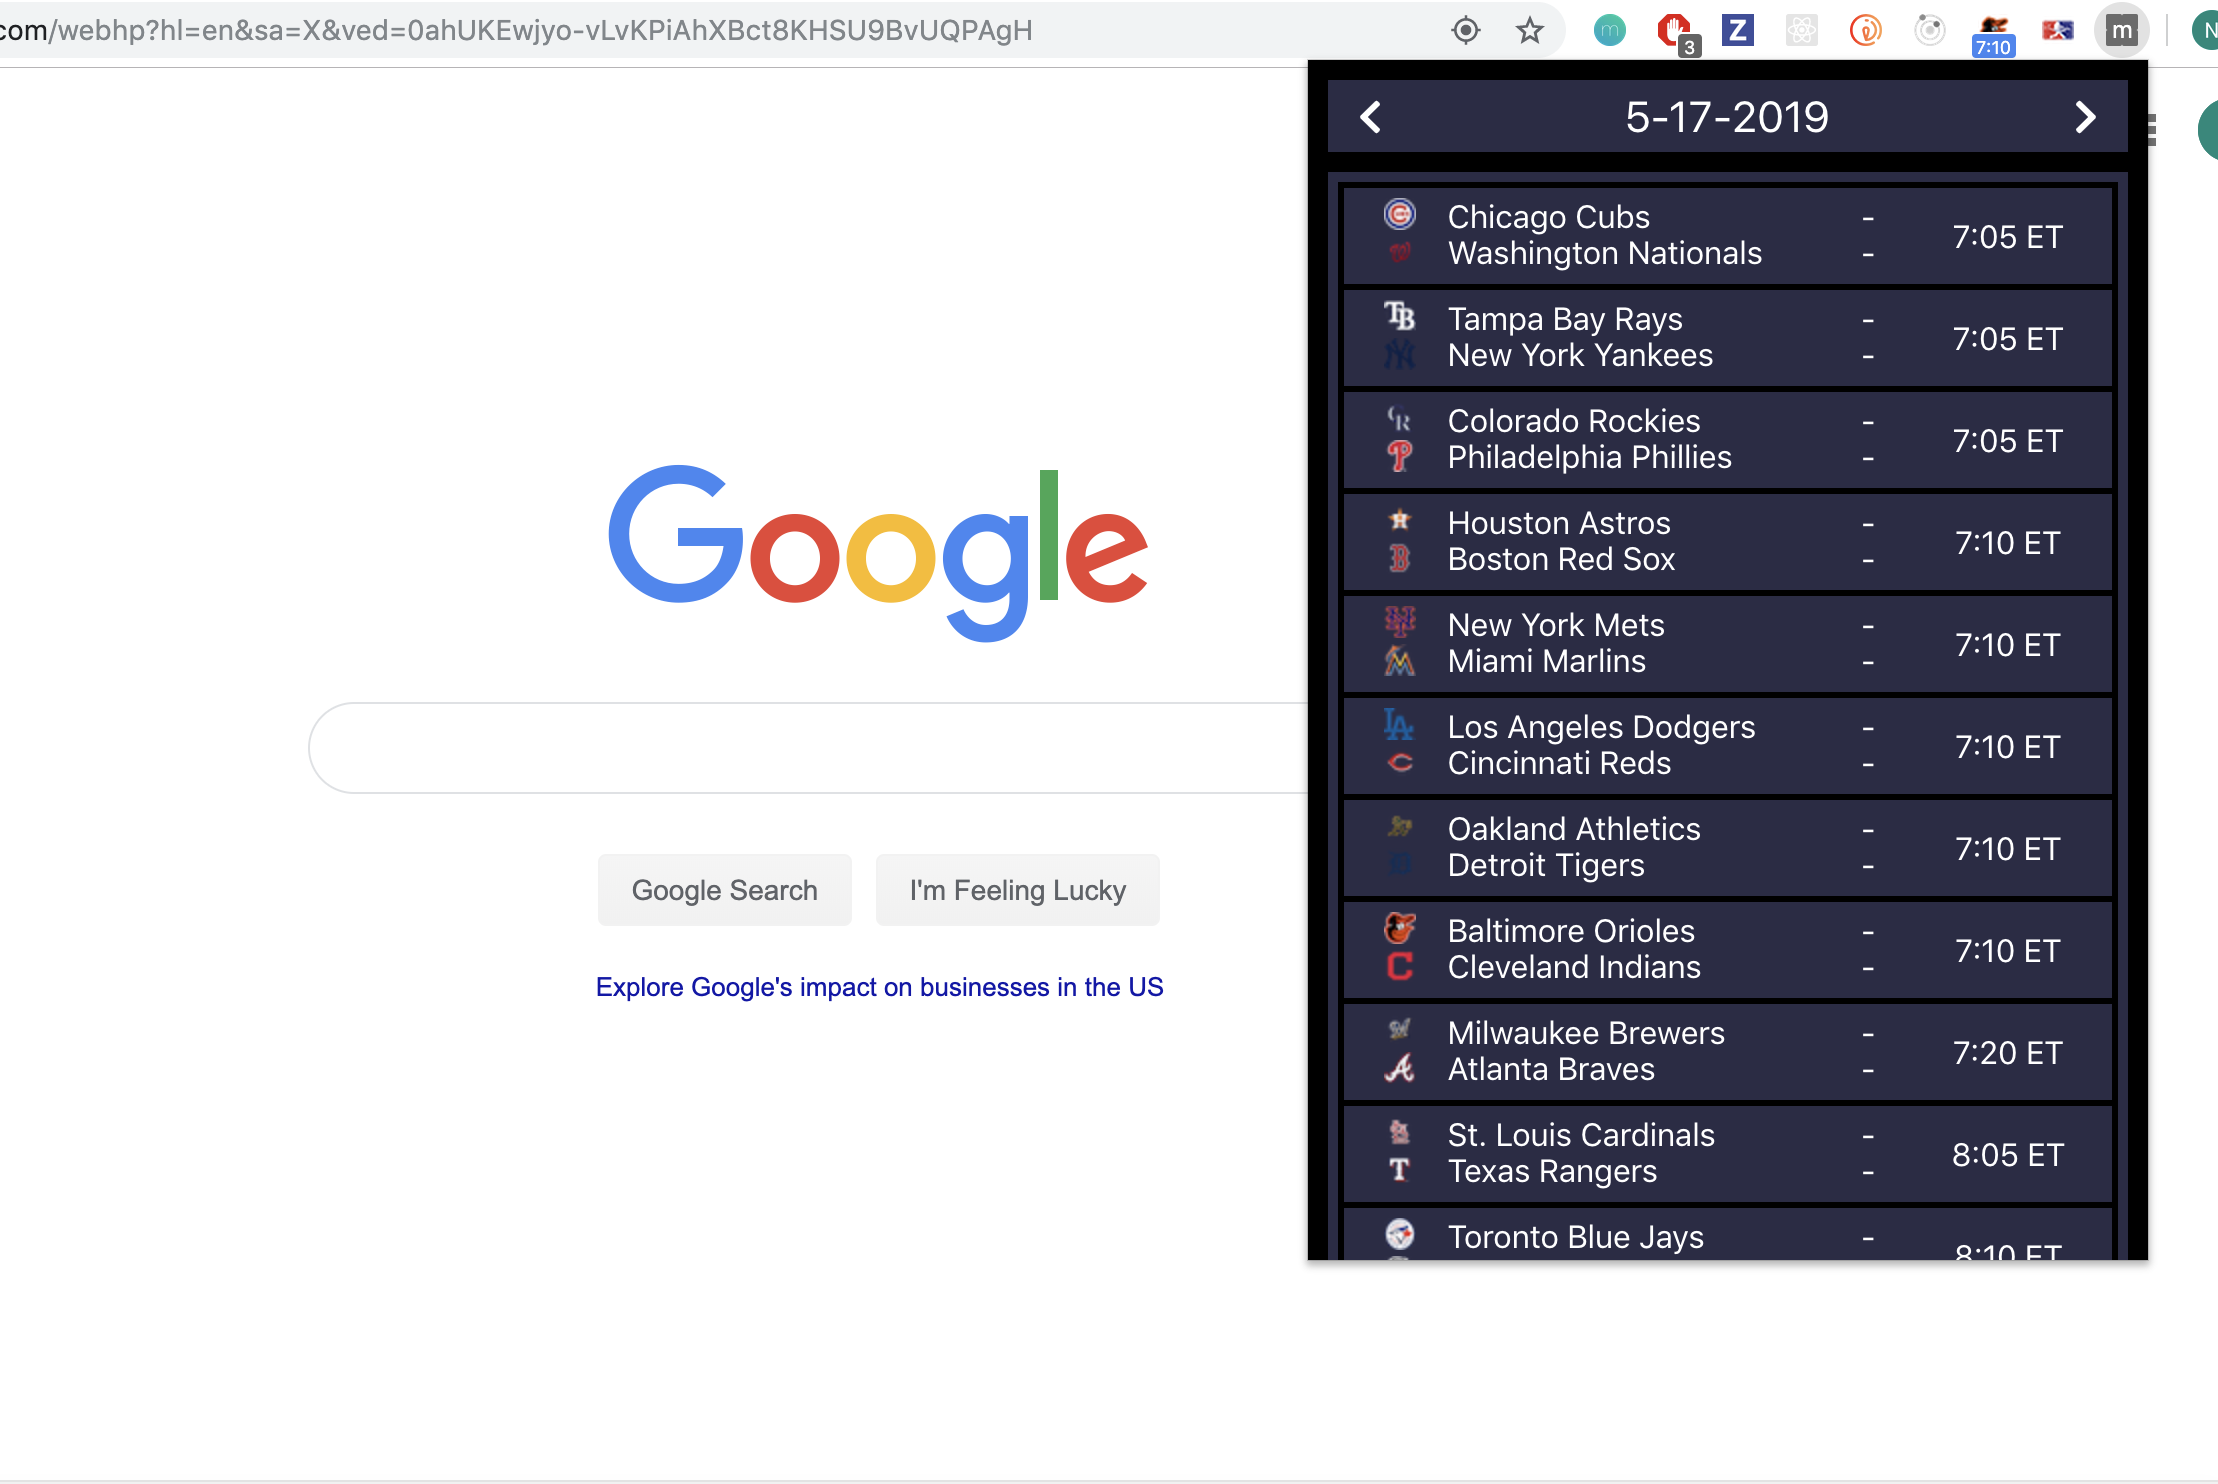
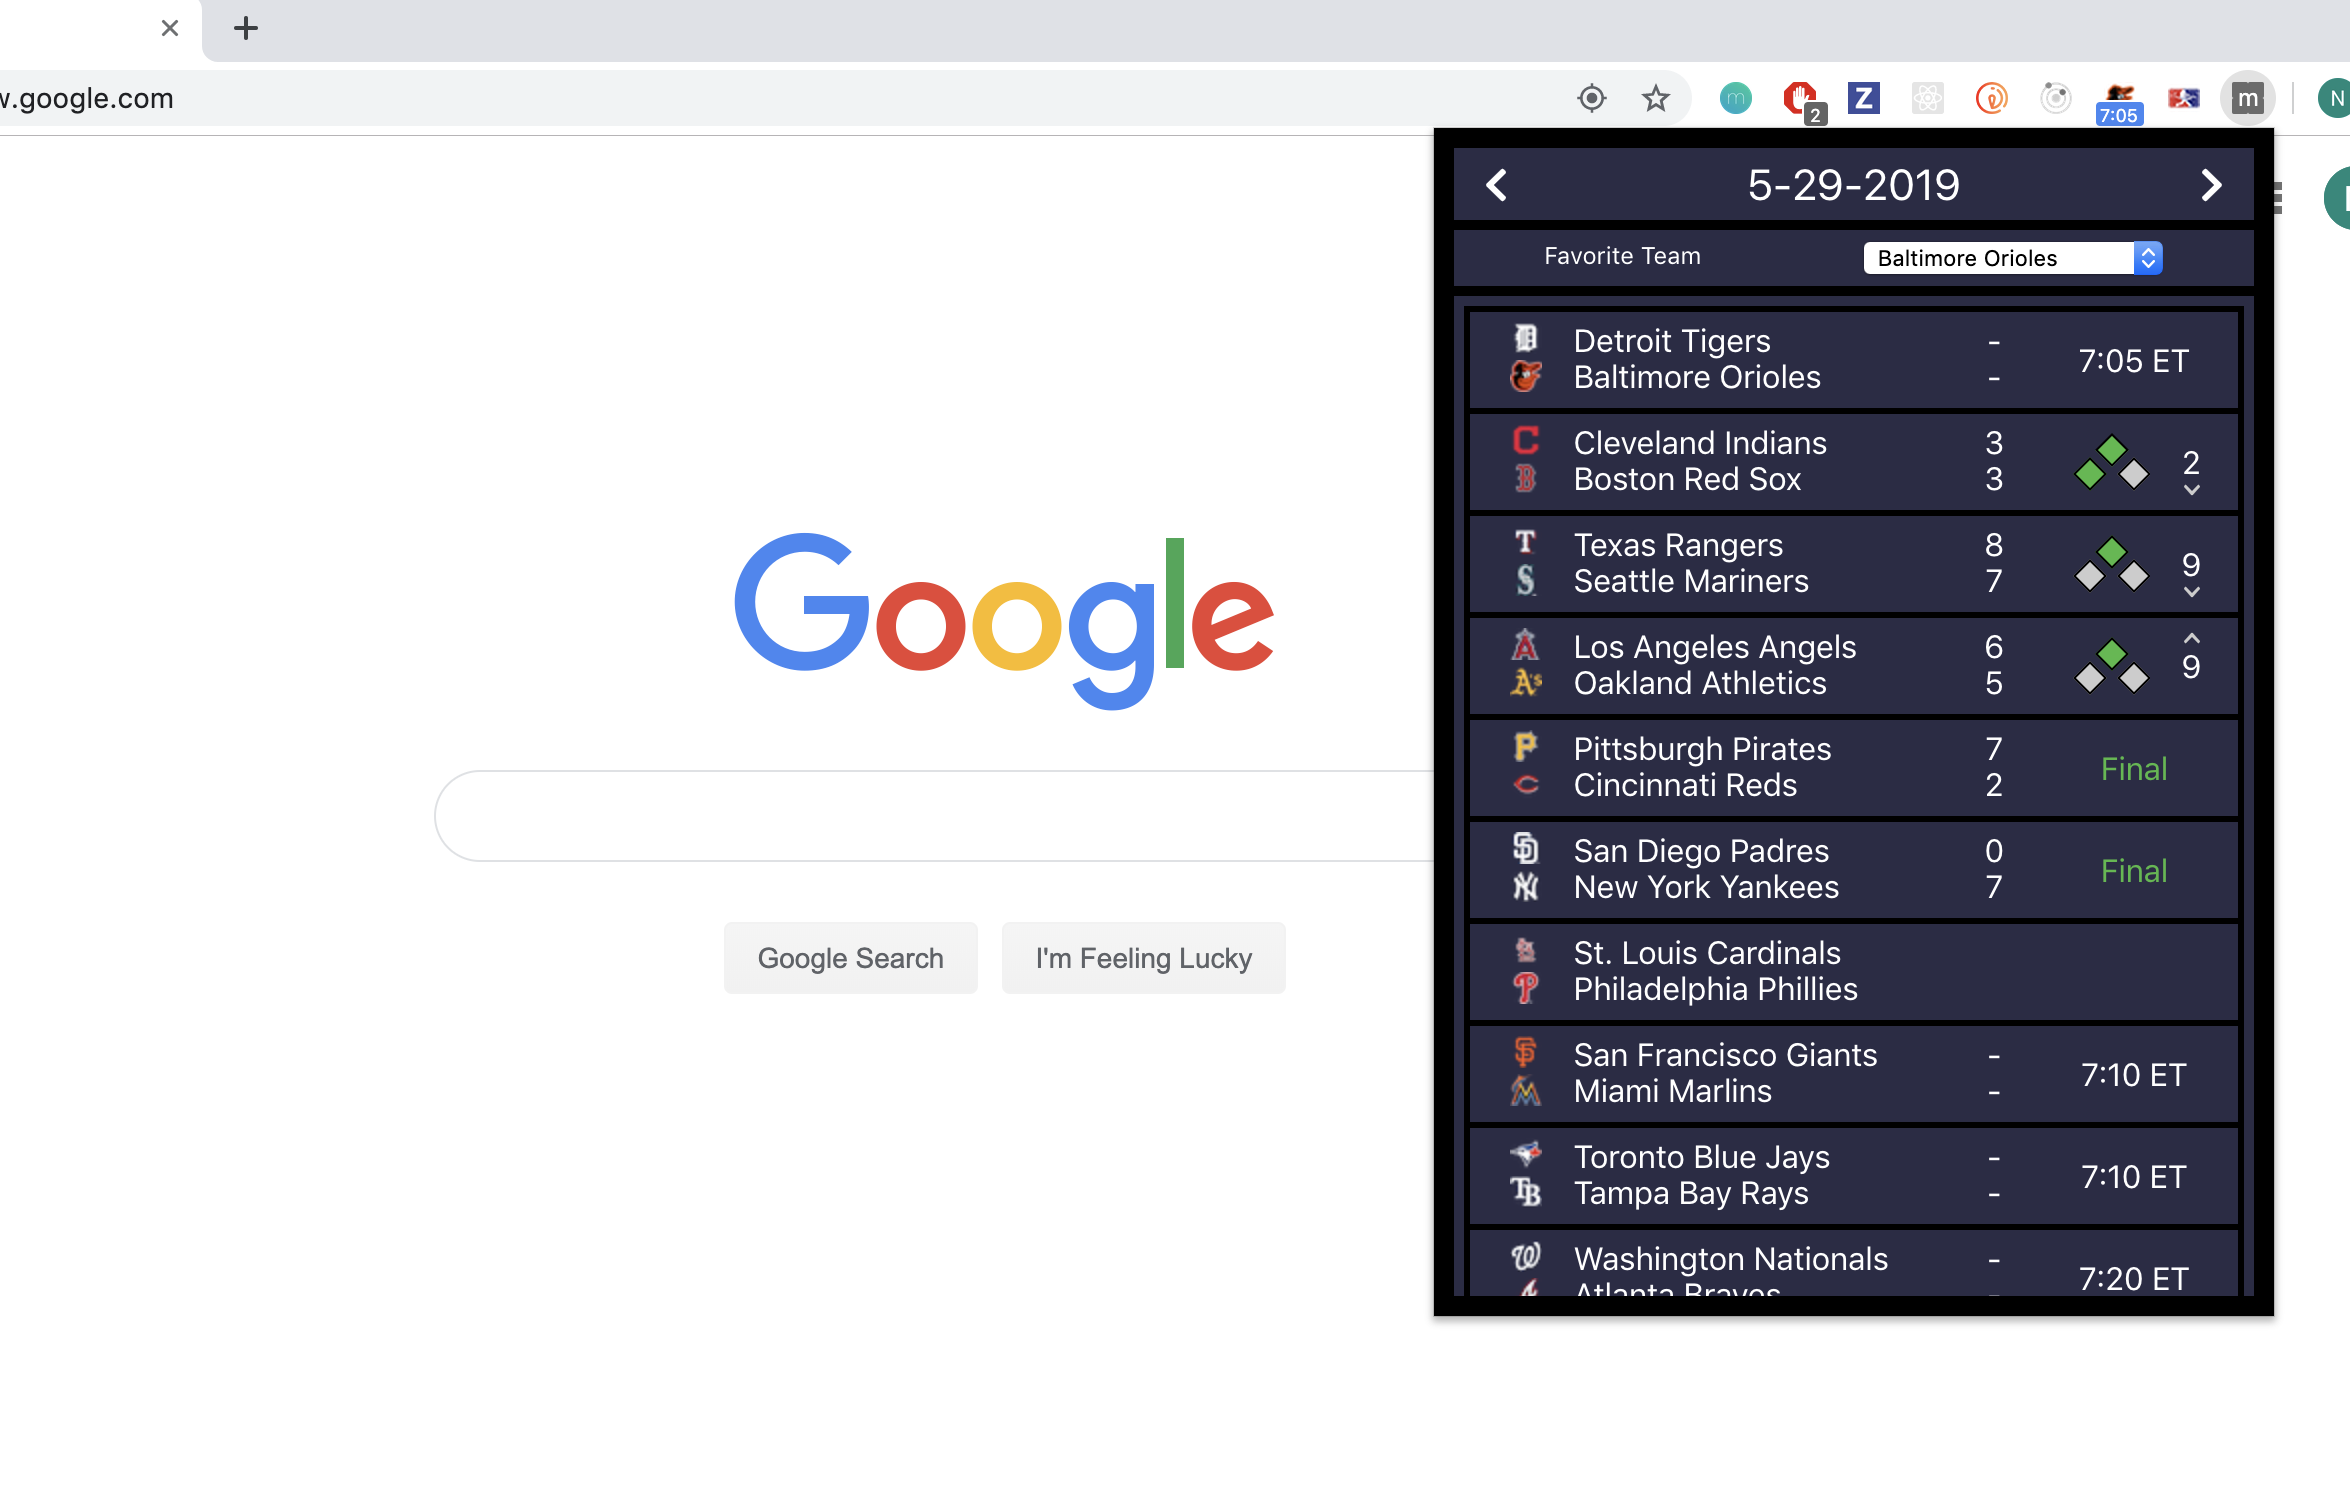
update preview

diff --git a/src/components/TeamPicker.js b/src/components/TeamPicker.js
@@ -3,14 +3,45 @@ import { Form } from 'react-bootstrap';
 import 'react-dropdown/style.css';
 import '../style/TeamPicker.css';
 
+const teams = [
+    'Arizona Diamondbacks',
+    'Atlanta Braves',
+    'Baltimore Orioles',
+    'Boston Red Sox',
+    'Chicago White Sox',
+    'Chicago Cubs',
+    'Cincinnati Reds',
+    'Cleveland Indians',
+    'Colorado Rockies',
+    'Detroit Tigers',
+    'Houston Astros',
+    'Kansas City Royals',
+    'Los Angeles Angels',
+    'Los Angeles Dodgers',
+    'Miami Marlins',
+    'Milwaukee Brewers',
+    'Minnesota Twins',
+    'New York Yankees',
+    'New York Mets',
+    'Oakland Athletics',
+    'Philadelphia Phillies',
+    'Pittsburgh Pirates',
+    'San Diego Padres',
+    'San Francisco Giants',
+    'Seattle Mariners',
+    'St. Louis Cardinals',
+    'Tampa Bay Rays',
+    'Texas Rangers',
+    'Toronto Blue Jays',
+    'Washington Nationals'
+];
+
 class TeamPicker extends Component {
     handleChange(e) {
-        console.log(e.target.value);
         localStorage.setItem('favorite-team', e.target.value);
     }
 
     render() {
-        const teams = ['Baltimore Orioles', 'Atlanta Braves', 'NY Yankees'];
         return (
             <div className='team-picker'>
                 <div>Favorite Team</div>

diff --git a/src/components/Bases.js b/src/components/Bases.js
@@ -4,9 +4,9 @@ import './../style/Bases.css';
 class Bases extends Component {
     render() {
         // console.log(this.props.basesState);
-        let firstClass = this.props.basesState['1B'] === true ? 'base-active' : '';
-        let secondClass = this.props.basesState['2B'] === true ? 'base-active' : '';
-        let thirdClass = this.props.basesState['3B'] === true ? 'base-active' : '';
+        let firstClass = this.props.basesState['1B'] ? 'base-active' : '';
+        let secondClass = this.props.basesState['2B'] ? 'base-active' : '';
+        let thirdClass = this.props.basesState['3B'] ? 'base-active' : '';
         return (
             <div className="bases">
                 <div className="row">
